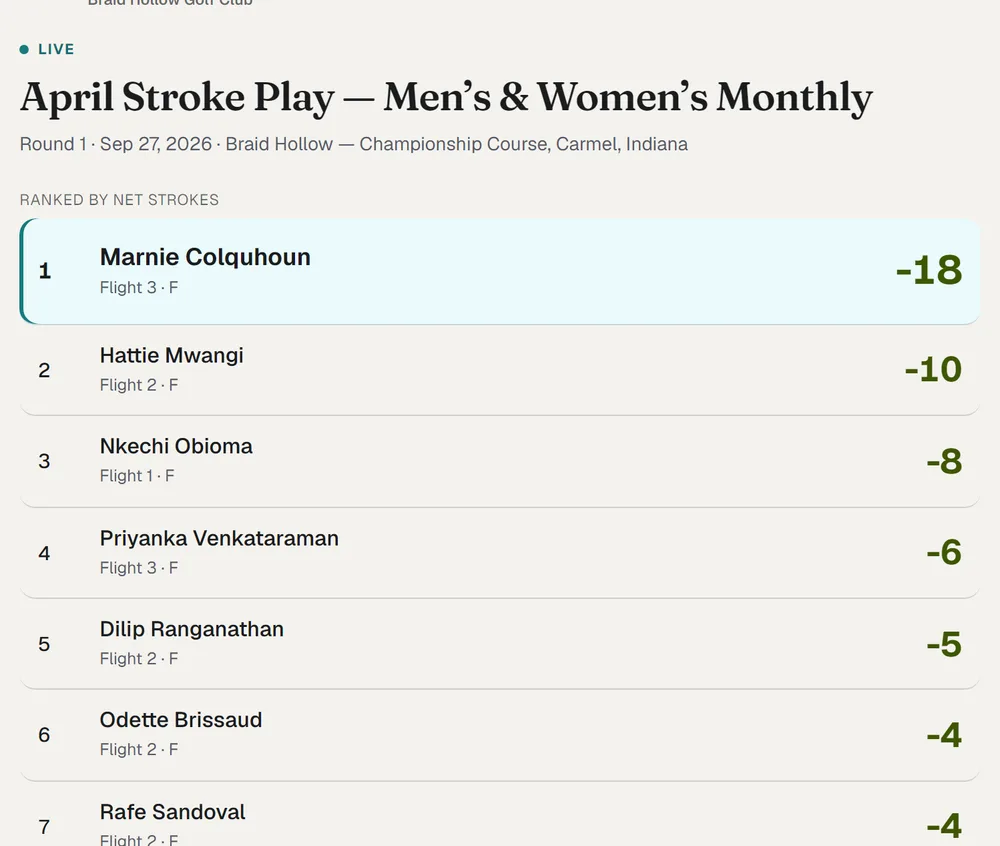
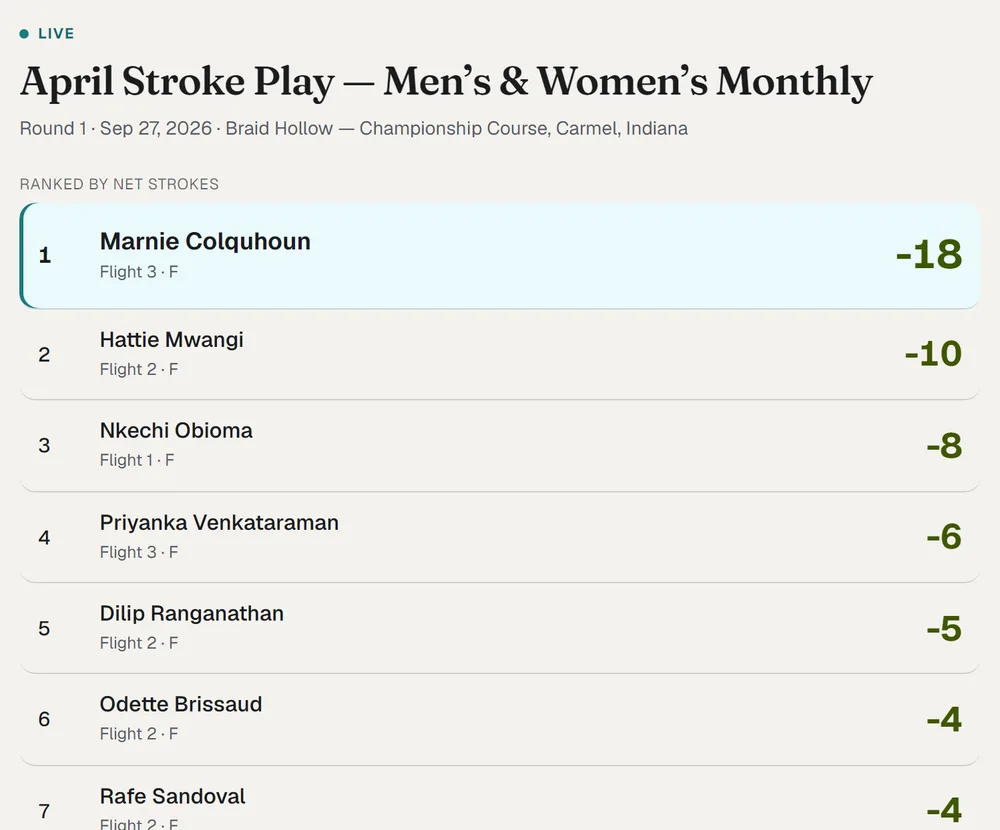
Front door refinement: legible feature screens, the player's phone in a phone's hero, real tabs for the player, and a comparison that reads on a phone
From an audit of production at 1440, 1024, 390 and 320:
- The tee sheet and "it tells you why" cards showed desktop captures shrunk
  to unreadable strips. Both are now re-captured at phone width (the app's
  own wrap) on the invented demo club and cropped to what the card says:
  Group 1 with its start time, and the locked-arrangement notice.
- The live-board crop no longer slices a line of text along its top edge.
- On a phone the hero showed the desktop console as a stamp; below 700px it
  shows the player's Today screen instead.
- "For the player" described four tabs and showed none: three real phone
  screens (Today, Board, My card) now sit under the list, following the page's
  Dark / Light switch.
- The comparison table stacks on a phone: each row becomes a card with all
  three products' answers, labelled, instead of one column and a swipe hint.
- Captions 12.5px and the table's row labels 11.5px (were 11.5 and 10.5);
  nav links are 44px tap targets.

diff --git a/src/app/page.tsx b/src/app/page.tsx
@@ -44,6 +44,13 @@ const STORE_LINKS = {
   android: process.env.TOURNEYHQ_ANDROID_URL ?? "",
 };
 
+/** The player app's tabs, shown in the "For the player" section: [capture, what it shows]. */
+const PLAYER_PHONES = [
+  ["phone-today", "Today: the player's round, their card so far and the leaders."],
+  ["phone-board", "Board: their own line first, then the field ranked by net strokes."],
+  ["phone-card", "My card: the full card, with a Say the card button and the certify step."],
+] as const;
+
 /** The desktop-and-phone pairs: [key, desktop capture, phone capture, url, caption, what it is]. */
 const DEVICE_SETS = [
   ["live", "dp-live-desktop", "dp-live-phone", "tourneyhq.club/live/…", "the public board — no login, names and scores only", "The public live board"],
@@ -247,7 +254,7 @@ export default async function LandingPage() {
                   scores only.
                 </p>
                 <figure className="shot-fig">
-                  {shot({ name: "crop-live-board", variant: d, width: 1000, height: 846, className: "shot", alt: "The public live board: ranked by net strokes, the leader highlighted, each player's flight and holes played." })}
+                  {shot({ name: "crop-live-board", variant: d, width: 1000, height: 830, className: "shot", alt: "The public live board: ranked by net strokes, the leader highlighted, each player's flight and holes played." })}
                   <figcaption><i />Real screen · the public board</figcaption>
                 </figure>
               </div>
@@ -265,7 +272,7 @@ export default async function LandingPage() {
                 <h3 className="h3">The tee sheet, drawn for you</h3>
                 <p>Groups drawn by handicap, standings or sides — from who&rsquo;s in — then yours to adjust, publish and print.</p>
                 <figure className="shot-fig">
-                  {shot({ name: "crop-tee-sheet", variant: d, width: 1200, height: 494, className: "shot", alt: "The tee sheet: groups with their start times, each player's handicap and the group average." })}
+                  {shot({ name: "crop-tee-sheet", variant: d, width: 700, height: 470, className: "shot", alt: "The published tee sheet: Group 1 off hole 1 at 08:10, each player's handicap and the group average." })}
                   <figcaption><i />Real screen · tee sheet</figcaption>
                 </figure>
               </div>
@@ -305,7 +312,7 @@ export default async function LandingPage() {
                 <h3 className="h3">It tells you why — and the way out</h3>
                 <p>When something can&rsquo;t be done, the screen says why and what to do next, right where you tried. Not a dead button, not a tooltip to hunt for.</p>
                 <figure className="shot-fig">
-                  {shot({ name: "crop-locked", variant: d, width: 1200, height: 115, className: "shot", alt: "'Changing this redraws who plays whom, so it is locked while setup is. Unlock setup on Tournament details to change it.'" })}
+                  {shot({ name: "crop-locked", variant: d, width: 700, height: 269, className: "shot", alt: "The bracket's arrangement, locked: 'Changing this redraws who plays whom, so it is locked while setup is. Unlock setup on Tournament details to change it.'" })}
                   <figcaption><i />Real screen · the bracket, locked</figcaption>
                 </figure>
               </div>
@@ -482,6 +489,15 @@ export default async function LandingPage() {
               <div className="feat"><div className="ic">{icon("board")}</div><div><h4>Board</h4><p>Their own line first, and the column says whether it&rsquo;s strokes, points or match play.</p></div></div>
               <div className="feat"><div className="ic">{icon("grid")}</div><div><h4>My card</h4><p>Opens on the hole they&rsquo;re playing — tap the score, or say it. Net cards show gross and net, with the stroke dot.</p></div></div>
               <div className="feat"><div className="ic">{icon("calendar")}</div><div><h4>Events</h4><p>Every tournament the club runs — enter in a tap, and &ldquo;am I in next week?&rdquo; answered.</p></div></div>
+            </div>
+            {/* The tabs themselves, not a description of them: three real
+                screens of the player app, in the page's chosen appearance. */}
+            <div className="player-phones" role="group" aria-label="The player app: Today, Board and My card — real screens">
+              {PLAYER_PHONES.map(([name, alt]) => (
+                <div className="phone" key={name}>
+                  <div className="scr">{shot({ name, variant: d, width: 600, height: 1298, alt })}</div>
+                </div>
+              ))}
             </div>
           </div>
         </section>
@@ -807,9 +823,9 @@ export default async function LandingPage() {
                     {vsRow("Entry fees and payments", mk("part", "Records who has paid; never collects or holds the money"), mk("part", "Online registration and payment processing on TM Premium"), mk("part", "Registration with built-in payments, on every plan except the base Club plan"))}
                     <tr className="vs-srcrow">
                       <th scope="row">Source</th>
-                      <td className="hot">This page</td>
-                      <td><a href="https://golfgenius.com/products/tm" rel="nofollow noopener noreferrer" target="_blank">golfgenius.com/products/tm</a></td>
-                      <td><a href="https://tm.bluegolf.com/pricing" rel="nofollow noopener noreferrer" target="_blank">tm.bluegolf.com/pricing</a></td>
+                      <td className="hot" data-label="TourneyHQ">This page</td>
+                      <td data-label="Golf Genius"><a href="https://golfgenius.com/products/tm" rel="nofollow noopener noreferrer" target="_blank">golfgenius.com/products/tm</a></td>
+                      <td data-label="BlueGolf TM"><a href="https://tm.bluegolf.com/pricing" rel="nofollow noopener noreferrer" target="_blank">tm.bluegolf.com/pricing</a></td>
                     </tr>
                   </tbody>
                 </table>
@@ -997,9 +1013,9 @@ function vsRow(label: string, ours: React.ReactNode, golfGenius: React.ReactNode
   return (
     <tr>
       <th scope="row">{label}</th>
-      <td className="hot">{ours}</td>
-      <td>{golfGenius}</td>
-      <td>{blueGolf}</td>
+      <td className="hot" data-label="TourneyHQ">{ours}</td>
+      <td data-label="Golf Genius">{golfGenius}</td>
+      <td data-label="BlueGolf TM">{blueGolf}</td>
     </tr>
   );
 }

diff --git a/src/lib/landing/styles.ts b/src/lib/landing/styles.ts
@@ -126,7 +126,7 @@ ${landingTokens("light", "    ")}
 .thq .nav.scrolled { border-bottom-color: var(--line); background: color-mix(in srgb, var(--ground) 84%, transparent); }
 .thq .nav-in { display: flex; align-items: center; justify-content: space-between; height: 68px; gap: 24px; }
 .thq .nav-links { display: flex; gap: 4px; font: 500 14px/1 var(--sans); color: var(--ink-soft); }
-.thq .nav-links a { padding: 10px 12px; border-radius: 8px; transition: color .15s, background .15s; }
+.thq .nav-links a { display: inline-flex; align-items: center; min-height: 44px; padding: 0 12px; border-radius: 8px; transition: color .15s, background .15s; }
 .thq .nav-links a:hover, .thq .nav-links a[aria-current="page"] { color: var(--ink); background: var(--wash-2); }
 .thq .nav-act { display: flex; gap: 8px; }
 .thq .nav-act .btn { font-size: 14px; padding: 0 16px; }
@@ -151,6 +151,12 @@ ${landingTokens("light", "    ")}
 .thq .showcase::before { content: ""; position: absolute; left: 10%; right: 10%; top: 10%; height: 70%; background: radial-gradient(closest-side, var(--accent-a22), transparent); filter: blur(40px); z-index: -1; }
 .thq .showcase .phone { position: absolute; left: -6px; bottom: -40px; width: 216px; z-index: 2; }
 @media (max-width: 1000px) { .thq .showcase { padding: 0; } .thq .showcase .phone { display: none; } }
+@media (max-width: 700px) {
+  /* On a phone the desktop console shrinks to a stamp nobody can read; the
+     player's own screen, at the size it is actually used, says more. */
+  .thq .showcase .window { display: none; }
+  .thq .showcase .phone { display: block; position: static; width: min(300px, 78vw); margin: 0 auto; }
+}
 @media (max-height: 520px) and (orientation: landscape) { .thq .hero { padding-top: 48px; } .thq .sec { padding: 64px 0; } .thq .showcase { margin-top: 40px; } .thq .h1 { font-size: clamp(34px, 6vw, 56px); } }
 
 /* ── product frames: a browser window and a phone ── */
@@ -219,7 +225,7 @@ ${landingTokens("light", "    ")}
 .thq .shot { display: block; width: 100%; height: auto; border-radius: 12px; border: 1px solid var(--line-2); background: var(--bg); box-shadow: 0 1px 0 var(--wash), 0 22px 44px -22px rgba(0,0,0,.8); }
 .thq .cell .shot-fig .shot { max-height: 300px; object-fit: cover; object-position: top; }
 @media (max-width: 640px) { .thq .cell .shot-fig .shot { max-height: 240px; } }
-.thq .shot-fig figcaption { display: flex; align-items: center; gap: 7px; font: 500 11.5px/1.3 var(--mono); color: var(--ink-faint); }
+.thq .shot-fig figcaption { display: flex; align-items: center; gap: 7px; font: 500 12.5px/1.3 var(--mono); color: var(--ink-faint); }
 .thq .shot-fig figcaption i { flex: none; width: 5px; height: 5px; border-radius: 50%; background: var(--flag); }
 .thq .shot-fig.panel { margin: 0; }
 .thq .shot-fig.panel .shot { border-radius: 16px; box-shadow: var(--shadow); }
@@ -266,6 +272,14 @@ ${landingTokens("light", "    ")}
 .thq .feat h4 { font: 600 15.5px/1.3 var(--sans); margin-bottom: 3px; }
 .thq .feat p { font-size: 14.5px; color: var(--ink-soft); }
 .thq .feats.yours { grid-template-columns: minmax(0, 1fr); margin-top: 0; }
+
+.thq .player-phones { display: grid; grid-template-columns: repeat(3, minmax(0, 230px)); justify-content: center; align-items: end; gap: 28px; margin-top: 56px; }
+.thq .player-phones .phone:nth-child(2) { transform: translateY(-28px); }
+@media (max-width: 700px) {
+  .thq .player-phones { grid-template-columns: repeat(2, minmax(0, 170px)); gap: 16px; }
+  .thq .player-phones .phone:nth-child(2) { transform: none; }
+  .thq .player-phones .phone:nth-child(3) { display: none; }
+}
 
 /* ── desktop and phone ── */
 .thq .dp { display: grid; justify-items: center; gap: 22px; }
@@ -352,7 +366,7 @@ __CMP_FRAMES__
 .thq .vs-table th, .thq .vs-table td { vertical-align: top; }
 .thq .vs-table thead th { font: 650 16px/1.2 var(--sans); letter-spacing: -.01em; color: var(--ink); text-align: left; padding: 22px 18px 16px; border-bottom: 1px solid var(--line-2); }
 .thq .vs-table thead th:first-child { width: 190px; }
-.thq .vs-table tbody th { font: 600 10.5px/1.4 var(--mono); letter-spacing: .1em; text-transform: uppercase; color: var(--ink-faint); text-align: left; padding: 18px; }
+.thq .vs-table tbody th { font: 600 11.5px/1.4 var(--mono); letter-spacing: .1em; text-transform: uppercase; color: var(--ink-faint); text-align: left; padding: 18px; }
 .thq .vs-table td { font-size: 14px; line-height: 1.45; color: var(--ink-soft); padding: 18px; }
 .thq .vs-table tbody tr + tr > * { border-top: 1px solid var(--line); }
 .thq .vs-table .hot { background: var(--accent-a08); color: var(--ink); }
@@ -369,6 +383,24 @@ __CMP_FRAMES__
 .thq .vs-hint { display: none; margin: 10px 0 0; text-align: right; font: 500 12px/1 var(--mono); color: var(--ink-faint); }
 .thq .vs-legal { max-width: 760px; margin: 24px auto 0; text-align: center; font-size: 12.5px; line-height: 1.55; color: var(--ink-faint); }
 @media (max-width: 980px) { .thq .vs-hint { display: block; } .thq .vs-table thead th:first-child { width: 118px; } }
+/* On a phone a three-column table shows one column and a swipe hint, so the
+   two platforms being compared are off the screen. Each row becomes a card
+   instead: the question, then all three answers, each naming its product. */
+@media (max-width: 700px) {
+  .thq .vs-scroll { overflow: visible; }
+  .thq .vs-table { min-width: 0; table-layout: auto; }
+  .thq .vs-table, .thq .vs-table tbody, .thq .vs-table tr, .thq .vs-table th, .thq .vs-table td { display: block; width: auto; }
+  .thq .vs-table thead { display: none; }
+  .thq .vs-table tbody tr { padding: 16px; }
+  .thq .vs-table tbody tr + tr > * { border-top: 0; }
+  .thq .vs-table tbody tr + tr { border-top: 1px solid var(--line); }
+  .thq .vs-table tbody th { position: static; padding: 0 0 10px; background: none; font-size: 12px; color: var(--ink-soft); }
+  .thq .vs-table td { padding: 8px 10px; border-radius: 10px; }
+  .thq .vs-table td + td { margin-top: 4px; }
+  .thq .vs-table td::before { content: attr(data-label); display: block; margin-bottom: 3px; font: 600 11.5px/1.3 var(--mono); letter-spacing: .04em; color: var(--ink-faint); }
+  .thq .vs-table td.hot::before { color: var(--brass); }
+  .thq .vs-hint { display: none; }
+}
 
 /* ── pricing ── */
 .thq .per-y { display: none; }
